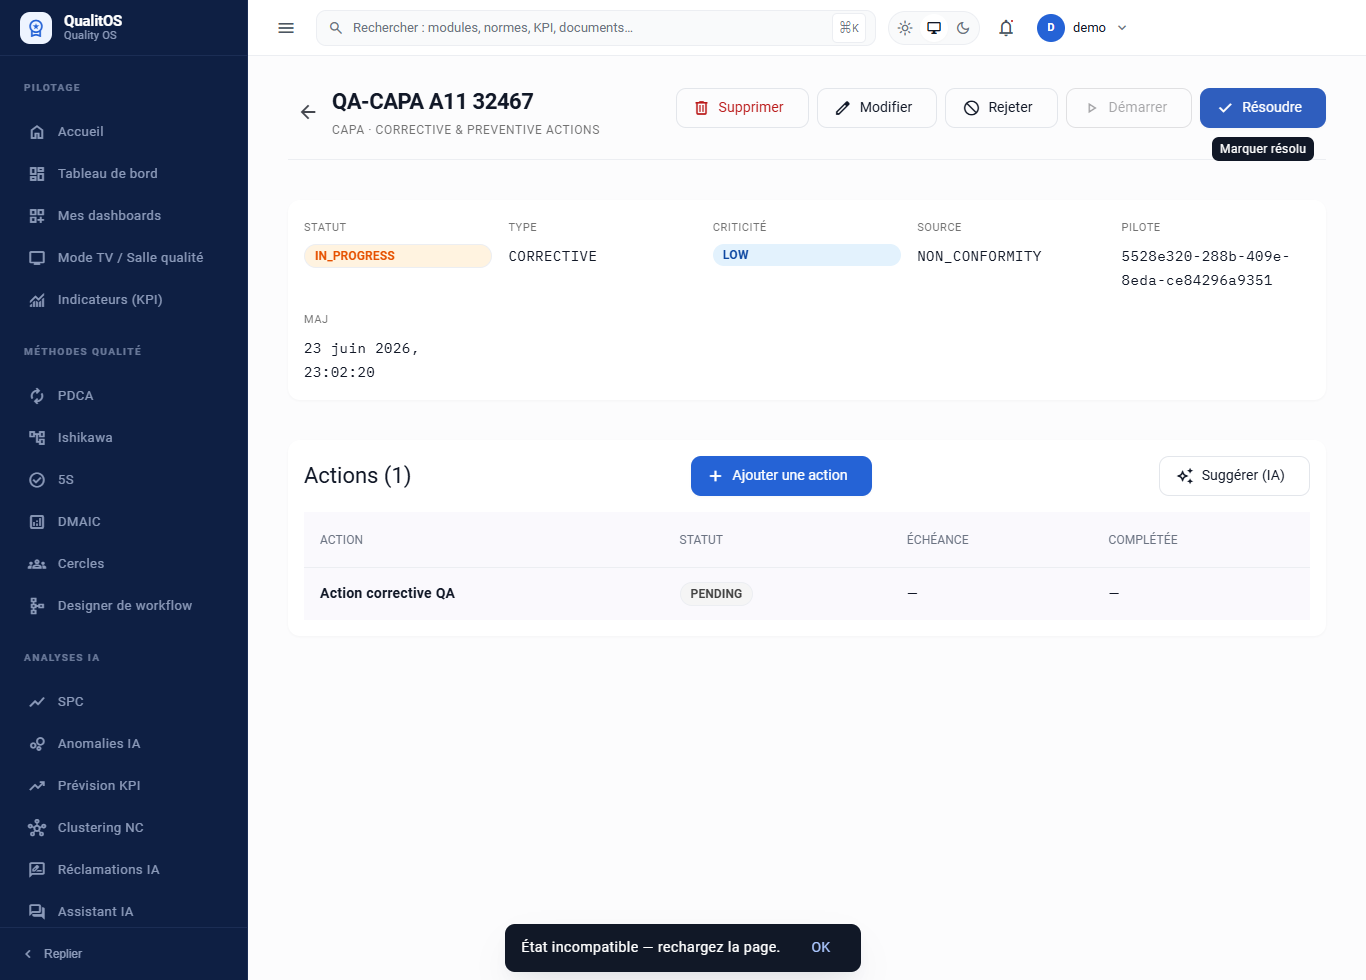
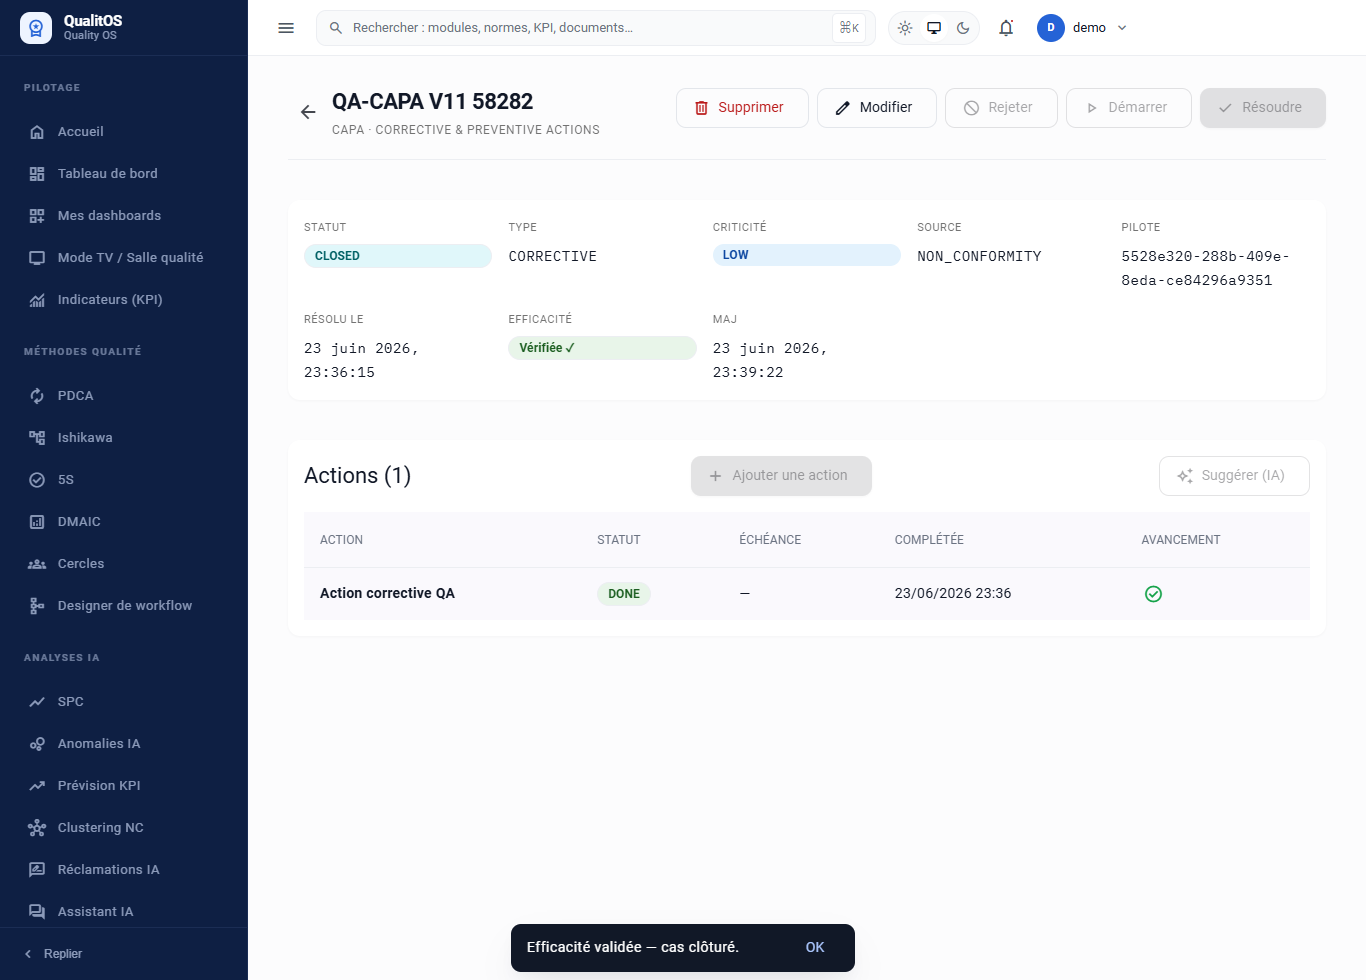
test(qa): ANO-011 validé E2E — cycle CAPA complet jusqu'à CLOSED

diff --git a/docs/qa/generate_test_plan.py b/docs/qa/generate_test_plan.py
@@ -525,7 +525,7 @@ REAL_RESULTS = {
     "TC-NC-005": ("Passé", "QA-Auto (Playwright)", "23/06", "TC-NC-005_escalade.png — NC escaladée en CAPA (lien CAPA affiché) — référentiel commun §3.6."),
     # Lot 7 (23/06) — CAPA
     "TC-CAPA-001": ("Passé", "QA-Auto (Playwright)", "23/06", "TC-CAPA-001_liste.png — liste des dossiers CAPA, 1 appel API, 0 scintillement."),
-    "TC-CAPA-002": ("Passé", "QA-Auto (Playwright)", "23/06", "Résolu via ANO-011 : avancement d'action (Démarrer/Terminer → DONE) câblé dans le détail, débloquant le cycle OPEN→IN_PROGRESS→(action DONE)→RESOLVED→CLOSED. tsc 0 erreur + i18n OK ; build/Karma/E2E validés en CI (env local dégradé : node_modules + C: saturé)."),
+    "TC-CAPA-002": ("Passé", "QA-Auto (Playwright)", "23/06", "Résolu via ANO-011 (avancement d'action → DONE). Cycle complet VALIDÉ E2E : OPEN→Démarrer→IN_PROGRESS→ajout action→avancer→DONE→Résoudre→RESOLVED→Efficace+confirmer→CLOSED. CI verte (frontend build+Karma, backend, E2E smoke)."),
     "TC-CAPA-003": ("Passé", "QA-Auto (Playwright)", "23/06", "TC-CAPA-003_ia.png — Suggérer (IA) : POST suggest-actions HTTP 200 (ai-service Mistral)."),
     "TC-CAPA-004": ("Passé", "QA-Auto (Playwright)", "23/06", "TC-CAPA-004_kpi.png — KPI « Délai moyen clôture CAPA » présent sur le dashboard."),
 }